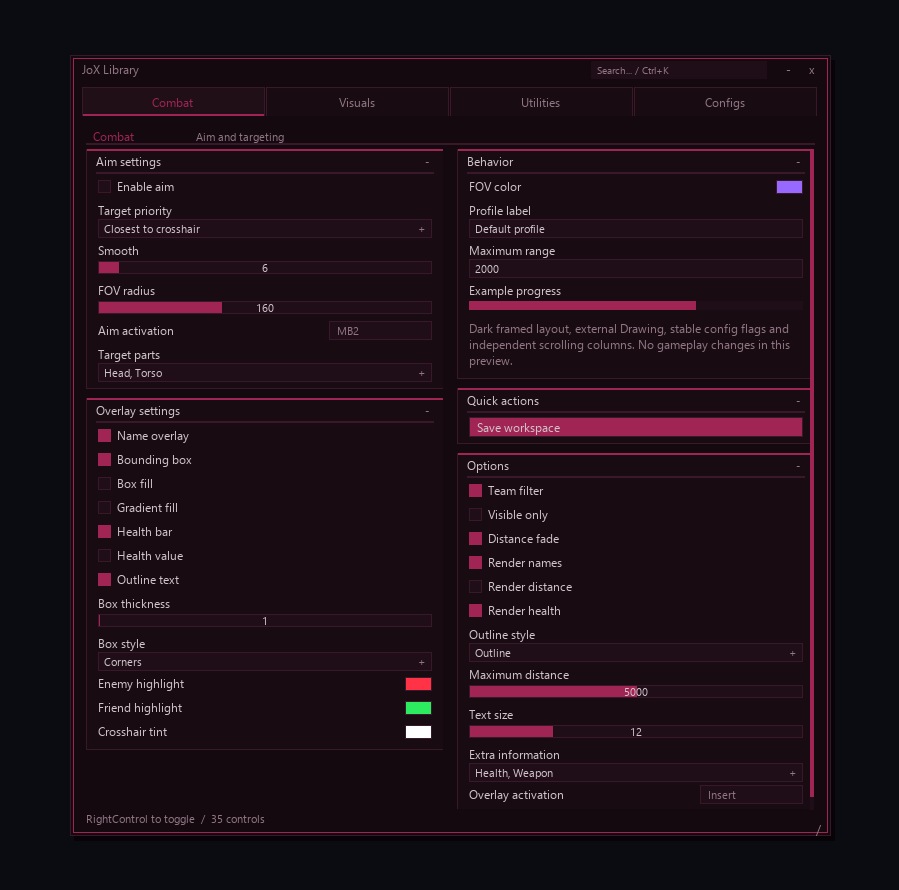
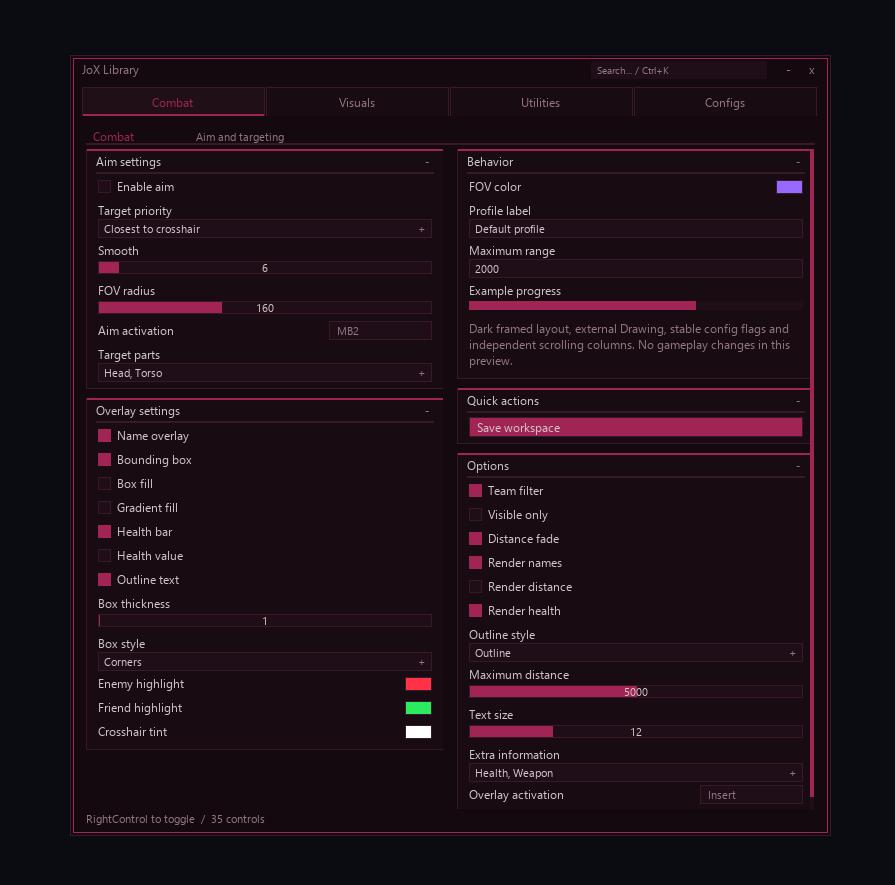
Remove window shadow and keep invisible corner resizing

diff --git a/README.md b/README.md
@@ -128,7 +128,7 @@ Use explicit stable flags to preserve settings when labels change. Pass `configA
 - Use `shared` for singleton handles in Jael X. Its external Lua VM does not provide executor-style `getgenv()`.
 - Input and Drawing share client pixels: do not subtract the Roblox GUI inset.
 - Wheel input requires `immediate.interactive_region`; the library registers visible windows and popup regions each frame.
-- Minimum window size is 650 × 420. Keep the window inside the viewport; resize using the lower right grip.
+- Minimum window size is 650 × 420. Keep the window inside the viewport; resize by dragging the invisible 24 × 24 lower right corner.
 - No touch/gamepad input emulation. Text editing uses key edges rather than OS text composition.
 - Callbacks are protected and scheduled. Keep feature loops cooperative with `task.wait`.
 - Keep the calling script alive with its normal core loop. The demo uses a guarded wait loop and an unload key; unloading the library disconnects its signals without stopping your own features.
@@ -153,3 +153,9 @@ The reference layout uses horizontal tabs, compact checkbox rows, thin magenta s
 Control captions, checkbox labels, slider values, dropdown values/arrows, buttons, keybinds, tabs and color editor fields share measured DirectWrite line-box alignment. Slider numbers are also centered horizontally using measured width rather than character-count estimates. Cached measurements are bounded to avoid retaining unlimited dynamic text.
 
 The offline preview respects font ascender/baseline bearings instead of treating visible glyph bounds as the layout origin. Regression checks compare the rendered text line centers to slider, dropdown and button rectangles using the native font measurement API. Public methods and saved configuration flags remain unchanged.
+
+## Version 1.1.3 clean window edges
+
+The window drop shadow and diagonal resize decoration are removed. Drag the invisible 24 × 24 bottom-right corner to resize; the window origin stays fixed and size is bounded by the available viewport. Dimensions still save in configs.
+
+`NewTab("Combat", "Aim and targeting")` creates one clickable Combat tab with a passive description, not a nested targeting page. Existing 1.x methods require no migration. Offline checks cover clicking horizontal tabs and dragging the corner.
